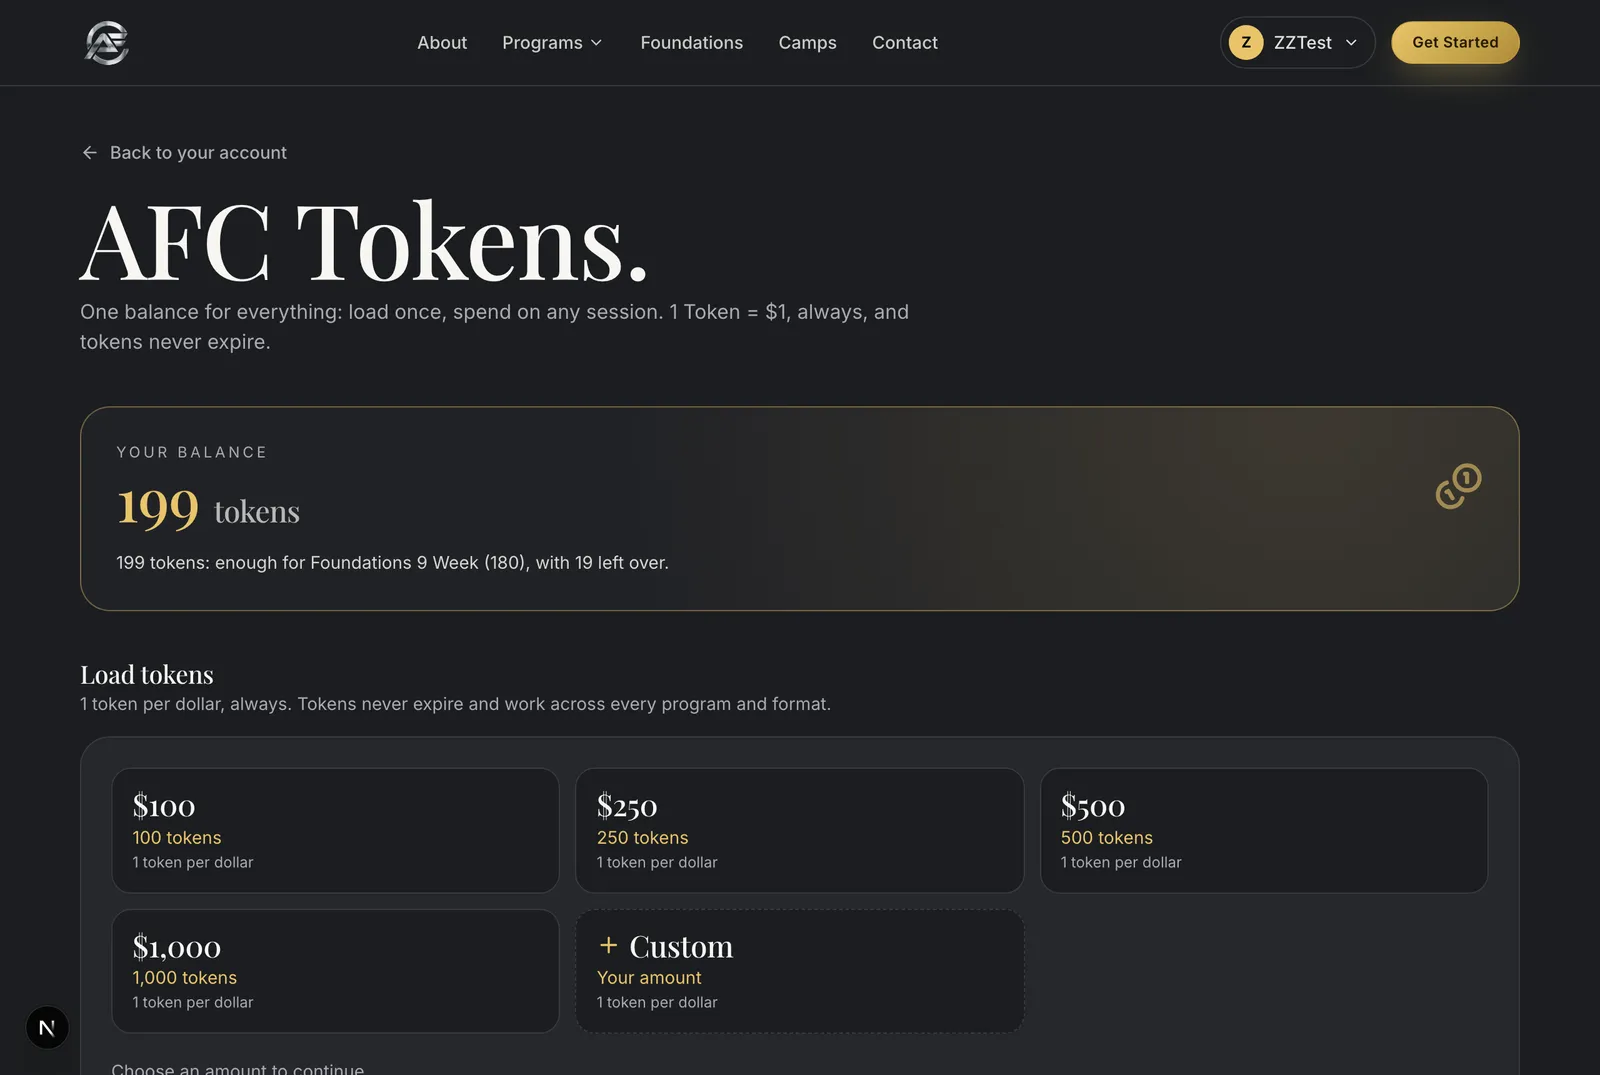
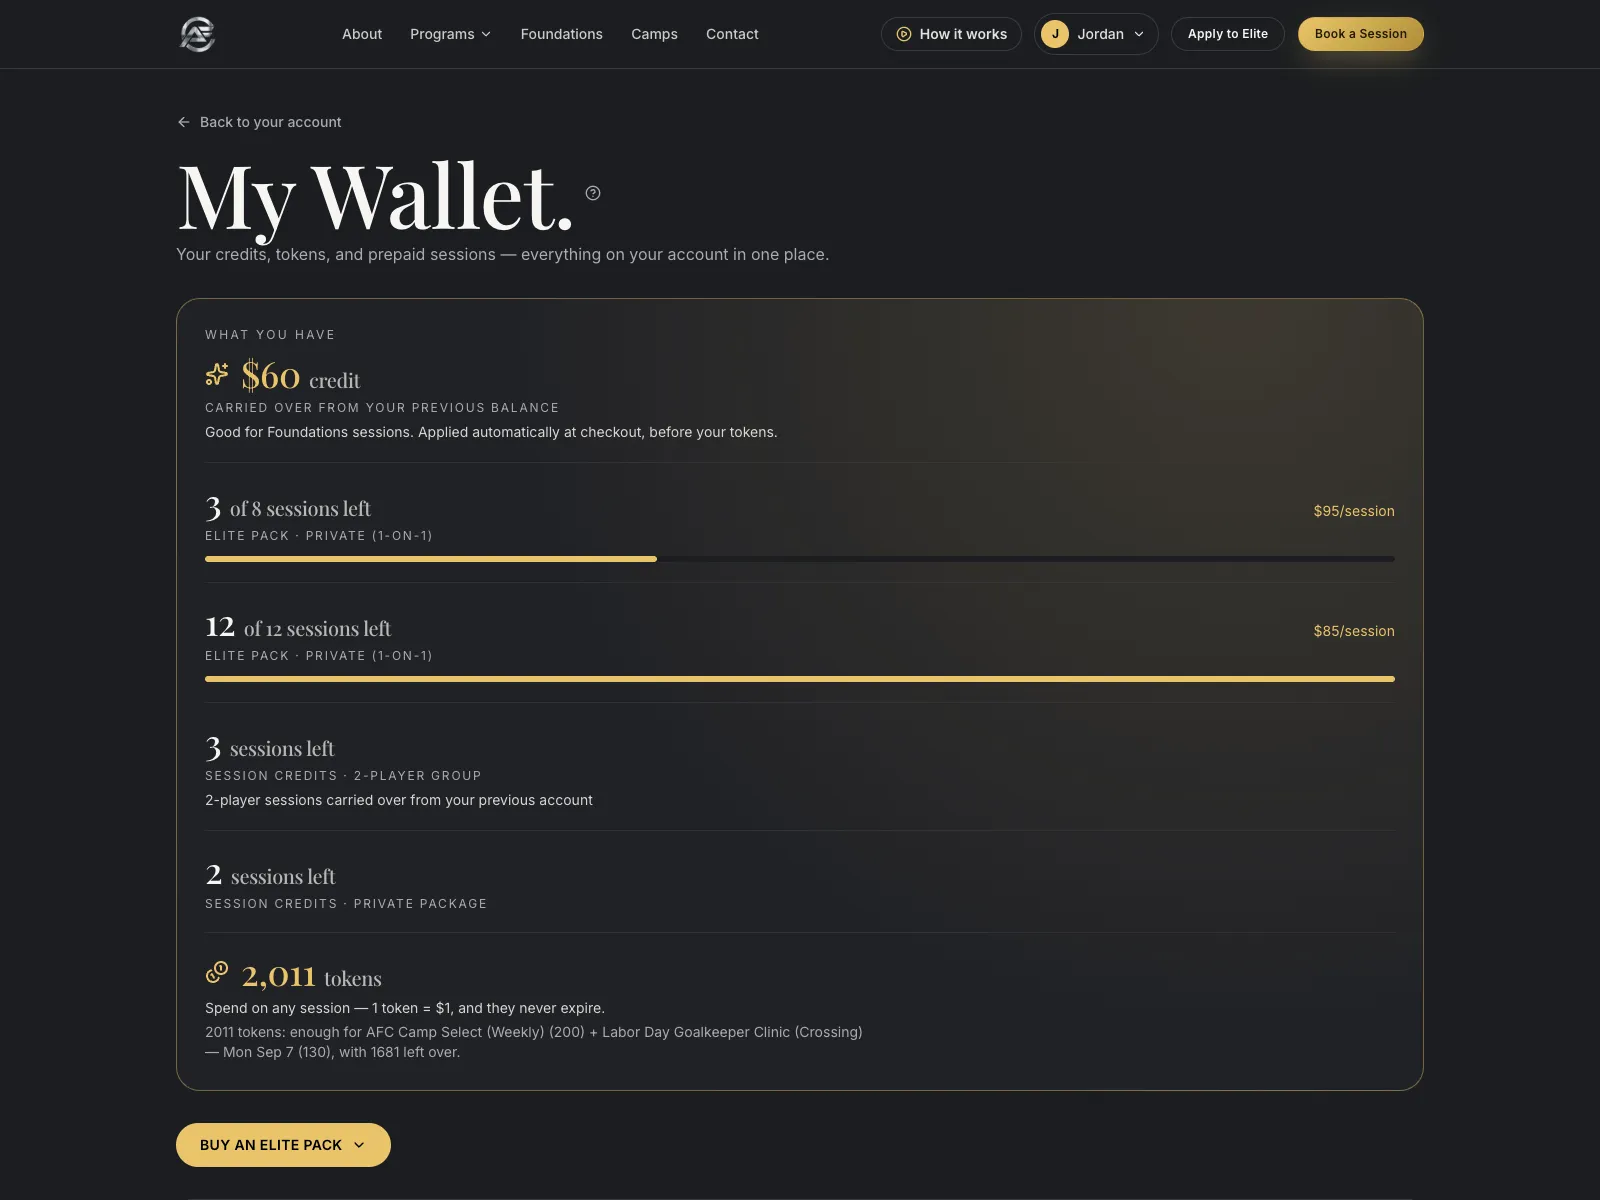
Real screenshots of every screen that changed
Captured against a running build of demo main, signing in through the
actual forms — the convention this guide has always used, just applied
to the screens that did not exist in July.

NEW CAPTURES (15): the wallet and account home, the waiver on desktop
and at 390px, the Performance page, the bookings calendar and a session
roster opened, The Money, Collections, Payments, refund requests,
Performance interest, the clients list with its unsigned-waiver pill,
and all three payment-request doors.

THE FIRST RUN CAPTURED A LOADING SKELETON. /admin/money came back as
grey placeholder blocks with the nav around them — readyState was
"complete" and the fixed 900ms wait had expired, but the page is
server-rendered off several database round trips and had not filled in
yet. A screenshot of a skeleton is worse than a stale screenshot: it
looks like the feature is broken.

So the capture script now BLOCKS ON CONTENT — it polls until no
skeleton elements remain and the page carries real text, then refuses
outright to save a frame with skeletons still on screen. Same lesson as
judging a deploy by the content it serves rather than by a timer. The
login page is exempt, since a form legitimately has almost no text; that
exemption cost one round to find.

The changelog's screenshot caveat is now specific rather than blanket:
it names which captures are fresh and says the rest are July, with the
rule that where a picture and a sentence disagree, the sentence is the
[…]

diff --git a/index.html b/index.html
@@ -342,7 +342,7 @@
   <span class="eyebrow">AFC &middot; Internal training</span>
   <h2 class="title">Know the platform like you built it.</h2>
   <p>This guide walks through every screen a parent, a coach, or an admin will ever touch. After reading it, anyone on the team should be able to answer any question a parent or coach asks. Use the search box on the left, or print the whole thing.</p>
-  <p style="margin-top:10px; font-size:13px; color:var(--gold);">Updated August 25, 2026. The platform moved a long way between 9 July and now &mdash; card payments went live, tokens stopped being something you can buy, Performance came off a published calendar, and the waiver was rebuilt. <b>Start at <a href="#p0-changed" style="color:var(--gold)">What changed since 9 July</a>: some of what this guide used to say is now wrong, and that page lists it.</b></p>
+  <p style="margin-top:10px; font-size:13px; color:var(--gold);">Updated August 25, 2026, with fresh screenshots of every screen that changed. The platform moved a long way between 9 July and now &mdash; card payments went live, tokens stopped being something you can buy, Performance came off a published calendar, and the waiver was rebuilt. <b>Start at <a href="#p0-changed" style="color:var(--gold)">What changed since 9 July</a>: some of what this guide used to say is now wrong, and that page lists it.</b></p>
 </div>
 
 <!-- ============================================================ START -->
@@ -370,8 +370,9 @@
   </table>
 
   <div class="callout warn">
-    <span class="tag">Screenshots are older than the words</span>
-    <p>The captures in this guide are from 9 July unless a caption says otherwise. Where a screen has been redesigned since &mdash; the wallet, Performance, the payments page &mdash; <b>trust the text over the picture</b>. Retaking the full set is a separate job; the README says how.</p>
+    <span class="tag">Which screenshots you can trust</span>
+    <p><b>Recaptured 25 Aug 2026, from a running build:</b> the wallet and account home, the waiver (desktop and phone), the Performance page, the bookings calendar and a session roster, The Money, Collections, Payments, refund requests, Performance interest, the clients list, and all three payment-request doors.</p>
+    <p><b>Everything else is still from 9 July</b> &mdash; the booking wizard, check-in, coach pay, Foundations, Elite. Those screens have not been redesigned, but if a picture and a sentence ever disagree, <b>the sentence is the one that was checked</b>.</p>
   </div>
 </section>
 
@@ -515,6 +516,12 @@
 <section class="doc" id="p1-tokens">
   <h3>AFC Tokens: the wallet <a class="hash" href="#p1-tokens">#</a></h3>
   <p class="lede"><b>1 token = 1 dollar, always.</b> No expiry, works on any program except the $199 Assessment Pathway. Wallet lives at Account &rarr; My Wallet.</p>
+
+
+  <div class="shots-2">
+    <figure><img width="1600" height="1200" src="images/parent-wallet.webp" alt="Wallet page" loading="lazy" /><figcaption>The wallet leads with what the family HOLDS. There is no load button anywhere on it any more.</figcaption></figure>
+    <figure><img width="1600" height="1600" src="images/parent-account-home.webp" alt="Account home" loading="lazy" /><figcaption>The account home: each athlete on their own card, with prepaid sessions surfaced and a one-tap way to book them.</figcaption></figure>
+  </div>
 
   <div class="callout warn">
     <span class="tag">Changed 15 Aug 2026 &mdash; parents can no longer BUY tokens</span>
@@ -787,6 +794,9 @@
   <h3>Performance classes <a class="hash" href="#p1-performance">#</a></h3>
   <p class="lede"><b>Demand-led since 15 Aug 2026.</b> A handful of classes actually run and are bookable today; for everything else a family raises their hand and a class opens when enough of them want the same hour.</p>
 
+
+  <figure><img width="1600" height="1700" src="images/performance-demand-led.webp" alt="The Performance page" loading="lazy" /><figcaption>Only classes with a coached weekly hour appear. Below them, the interest form that opens the next one.</figcaption></figure>
+
   <div class="callout warn">
     <span class="tag">Rewritten 25 Aug 2026 &mdash; the old six-class grid is gone</span>
     <p>This guide used to list six classes across three age bands, each Beginner and Advanced, with a placement rule. <b>All of that is retired.</b> Two separate changes did it:</p>
@@ -951,6 +961,12 @@
   <h3>The waiver, and the signature ledger <a class="hash" href="#p1-waiver">#</a></h3>
   <p class="lede"><b>Rebuilt 15 Aug 2026.</b> Five sections became fifteen, and every acceptance is now recorded as evidence &mdash; who, when, and <i>which text</i> they agreed to.</p>
 
+
+  <div class="shots-2">
+    <figure><img width="1600" height="1300" src="images/parent-waiver.webp" alt="The waiver page" loading="lazy" /><figcaption>/account/waiver — a family can read and sign here any time, not only inside a booking.</figcaption></figure>
+    <figure><img width="780" height="2800" src="images/parent-waiver-phone.webp" alt="The waiver on a phone" loading="lazy" /><figcaption>The same page at 390px, which is where most parents actually sign it.</figcaption></figure>
+  </div>
+
   <table class="facts">
     <tr><th>Once per family</th><td>A family signs <b>once</b>, not once per booking. Every surface that used to ask &mdash; checkout, Foundations, the Assessment scheduler, invite confirm &mdash; shows a quiet <i>Waiver on file for your family</i> note instead.</td></tr>
     <tr><th>What re-arms it</th><td>Publishing new waiver text. Everyone re-signs the new text exactly once, at their next booking. That is the trigger working, not a bug.</td></tr>
@@ -1061,6 +1077,12 @@
 <section class="doc" id="p2-session-tools">
   <h3>Working a session: bubbles, add athlete, change coach, bulk location <a class="hash" href="#p2-session-tools">#</a></h3>
   <p class="lede">Four things the calendar learned between 15 and 20 Aug 2026. Each one replaced a job that previously meant asking for a database edit.</p>
+
+
+  <div class="shots-2">
+    <figure><img width="1600" height="1500" src="images/admin-calendar-bubbles.webp" alt="The bookings calendar" loading="lazy" /><figcaption>The day view, opening on the first session of the day rather than on empty morning grid.</figcaption></figure>
+    <figure><img width="1600" height="1600" src="images/bubbles-roster-crop.webp" alt="One session opened" loading="lazy" /><figcaption>One bubble per session: open it and it names every athlete in the group, with each seat&rsquo;s payment state.</figcaption></figure>
+  </div>
 
   <h4>One bubble per session</h4>
   <ul class="plain">
@@ -1215,6 +1237,9 @@
 <section class="doc" id="p2-clients">
   <h3>Clients &amp; Leads <a class="hash" href="#p2-clients">#</a></h3>
   <p class="lede">Every family, bucketed by where they are in the AFC journey. Names open a full profile in a new tab, so you can keep the list open while you work.</p>
+
+  <figure><img width="1600" height="1400" src="images/admin-clients-waiver.webp" alt="The clients list" loading="lazy" /><figcaption>The clients list today: programme buckets, plus the red <b>Unsigned waiver</b> pill with a live count &mdash; the liability list, deliberately not coloured like a programme.</figcaption></figure>
+
   <div class="shots-2">
     <figure><img width="1600" height="1075" src="images/admin-clients.webp" alt="Clients list" loading="lazy" /><figcaption>The bucket bar: All, Foundations, Performance, Elite, Not booked, with live counts.</figcaption></figure>
     <figure><img width="1600" height="1075" src="images/admin-client-profile.webp" alt="Client profile" loading="lazy" /><figcaption>A full profile opens in its own tab: contact, athletes, wallet, bookings, and more.</figcaption></figure>
@@ -1252,6 +1277,9 @@
 <section class="doc" id="p2-payments">
   <h3>Payments &amp; refunds <a class="hash" href="#p2-payments">#</a></h3>
   <p class="lede">Every payment in one list: filter by status and date, search by family, export CSV. Totals for gross, refunded, and net sit on top.</p>
+
+  <figure><img width="1600" height="1400" src="images/admin-payments-money-in.webp" alt="The payments page" loading="lazy" /><figcaption>Payments is three views now: <b>Money in</b> (reconciles to Stripe), <b>Sessions</b> (what covered each one, in units, with no dollar total), and <b>On the books</b> (per family).</figcaption></figure>
+
   <figure><img width="1600" height="1075" src="images/admin-payments.webp" alt="Payments" loading="lazy" /><figcaption>The payments ledger with filters and export.</figcaption></figure>
   <ul class="plain">
     <li><b>Where payments come from</b>: token payments (the wallet), demo card payments, and manual "mark as paid" entries for cash or e-transfer.</li>
@@ -1273,6 +1301,12 @@
 <section class="doc" id="p2-money">
   <h3>The Money, and Collections <a class="hash" href="#p2-money">#</a></h3>
   <p class="lede"><b>New, 20&ndash;21 Aug 2026.</b> <code>/admin/money</code> is the owner&rsquo;s hub: what came in, what each coach delivered against what they were paid, and what is still owed. <code>/admin/money/uncollected</code> turns that last number into names and a send button.</p>
+
+
+  <div class="shots-2">
+    <figure><img width="1600" height="1700" src="images/admin-money.webp" alt="The Money" loading="lazy" /><figcaption>Have I covered my costs, delivered value against cash collected, Mikey&rsquo;s share, and where the next dollar is.</figcaption></figure>
+    <figure><img width="1600" height="1500" src="images/admin-collections.webp" alt="Collections" loading="lazy" /><figcaption>Who owes what &mdash; and what they already hold, shown before any button.</figcaption></figure>
+  </div>
 
   <div class="callout warn">
     <span class="tag">Andre only &mdash; and that is enforced, not implied</span>
@@ -1303,6 +1337,14 @@
 <section class="doc" id="p2-payment-requests">
   <h3>Asking a family to pay: the three doors <a class="hash" href="#p2-payment-requests">#</a></h3>
   <p class="lede">A payment request emails a family a link that pays straight into the platform. <b>Since 24&ndash;25 Aug 2026 you can raise one from wherever you happen to be when you realise a session is owed</b> &mdash; not only from a screen you have to go and find.</p>
+
+
+  <figure><img width="520" height="640" src="images/booking-send-request.webp" alt="Send payment request in the booking modal" loading="lazy" /><figcaption>Door 1: the seat tender set to <b>Send payment request</b>, with the amount box, the amber warning that this family&rsquo;s own pack would have covered it, and the read-back naming the outward act.</figcaption></figure>
+
+  <div class="shots-2">
+    <figure><img width="520" height="640" src="images/session-bill-door.webp" alt="The door on a session" loading="lazy" /><figcaption>Door 2: a delivered session nobody paid for. The Payment line carries the button.</figcaption></figure>
+    <figure><img width="520" height="640" src="images/session-ask-is-out.webp" alt="A session already asked" loading="lazy" /><figcaption>The same line once the ask is out &mdash; the amount, and no second link on offer.</figcaption></figure>
+  </div>
 
   <h4>The three doors, and they are all the same engine</h4>
   <table class="facts">
@@ -1337,6 +1379,9 @@
 <section class="doc" id="p2-refund-queue">
   <h3>Refund requests <a class="hash" href="#p2-refund-queue">#</a></h3>
   <p class="lede"><b>New, 5 Aug 2026.</b> At <code>/admin/payments/refund-requests</code>. A parent whose cancellation credited their wallet can ask for the card refunded instead; this is where that gets decided.</p>
+
+  <figure><img width="1600" height="1100" src="images/admin-refund-requests.webp" alt="Refund requests" loading="lazy" /><figcaption>Each request with the amount, the reason and the two decisions.</figcaption></figure>
+
   <table class="facts">
     <tr><th>Approving</th><td>Refunds the <b>full original charge</b> at Stripe while clawing back the credit that was issued. The parent ends whole; AFC absorbs only the processing fee.</td></tr>
     <tr><th>It refuses when</th><td>The credit has already been spent. Paying then would fund both the refund and whatever those tokens bought.</td></tr>
@@ -1473,6 +1518,9 @@
 <section class="doc" id="p2-performance-interest">
   <h3>Performance interest (admin) <a class="hash" href="#p2-performance-interest">#</a></h3>
   <p class="lede"><code>/admin/performance-interest</code> &mdash; the waiting list behind <a href="#p1-performance">demand-led Performance</a>. <b>It is built not to be read.</b></p>
+
+  <figure><img width="1600" height="1400" src="images/admin-performance-interest.webp" alt="Performance interest" loading="lazy" /><figcaption>Ready-to-open groups lead. When nothing is ready, it tells you not to bother checking.</figcaption></figure>
+
   <ul class="plain">
     <li>Groups that are <b>ready to open</b> lead the page; everything else is context. When nothing is ready it says so, and tells you that you will get an email the moment a group crosses four &mdash; you do not need to check it.</li>
     <li><b>"Tell these families it&rsquo;s open" announces; it does not schedule.</b> It <b>refuses to send</b> if the class has no weekly hour on an active coach &mdash; emailing "your class is open" for an hour nobody scheduled is the exact failure the whole build exists to end.</li>
